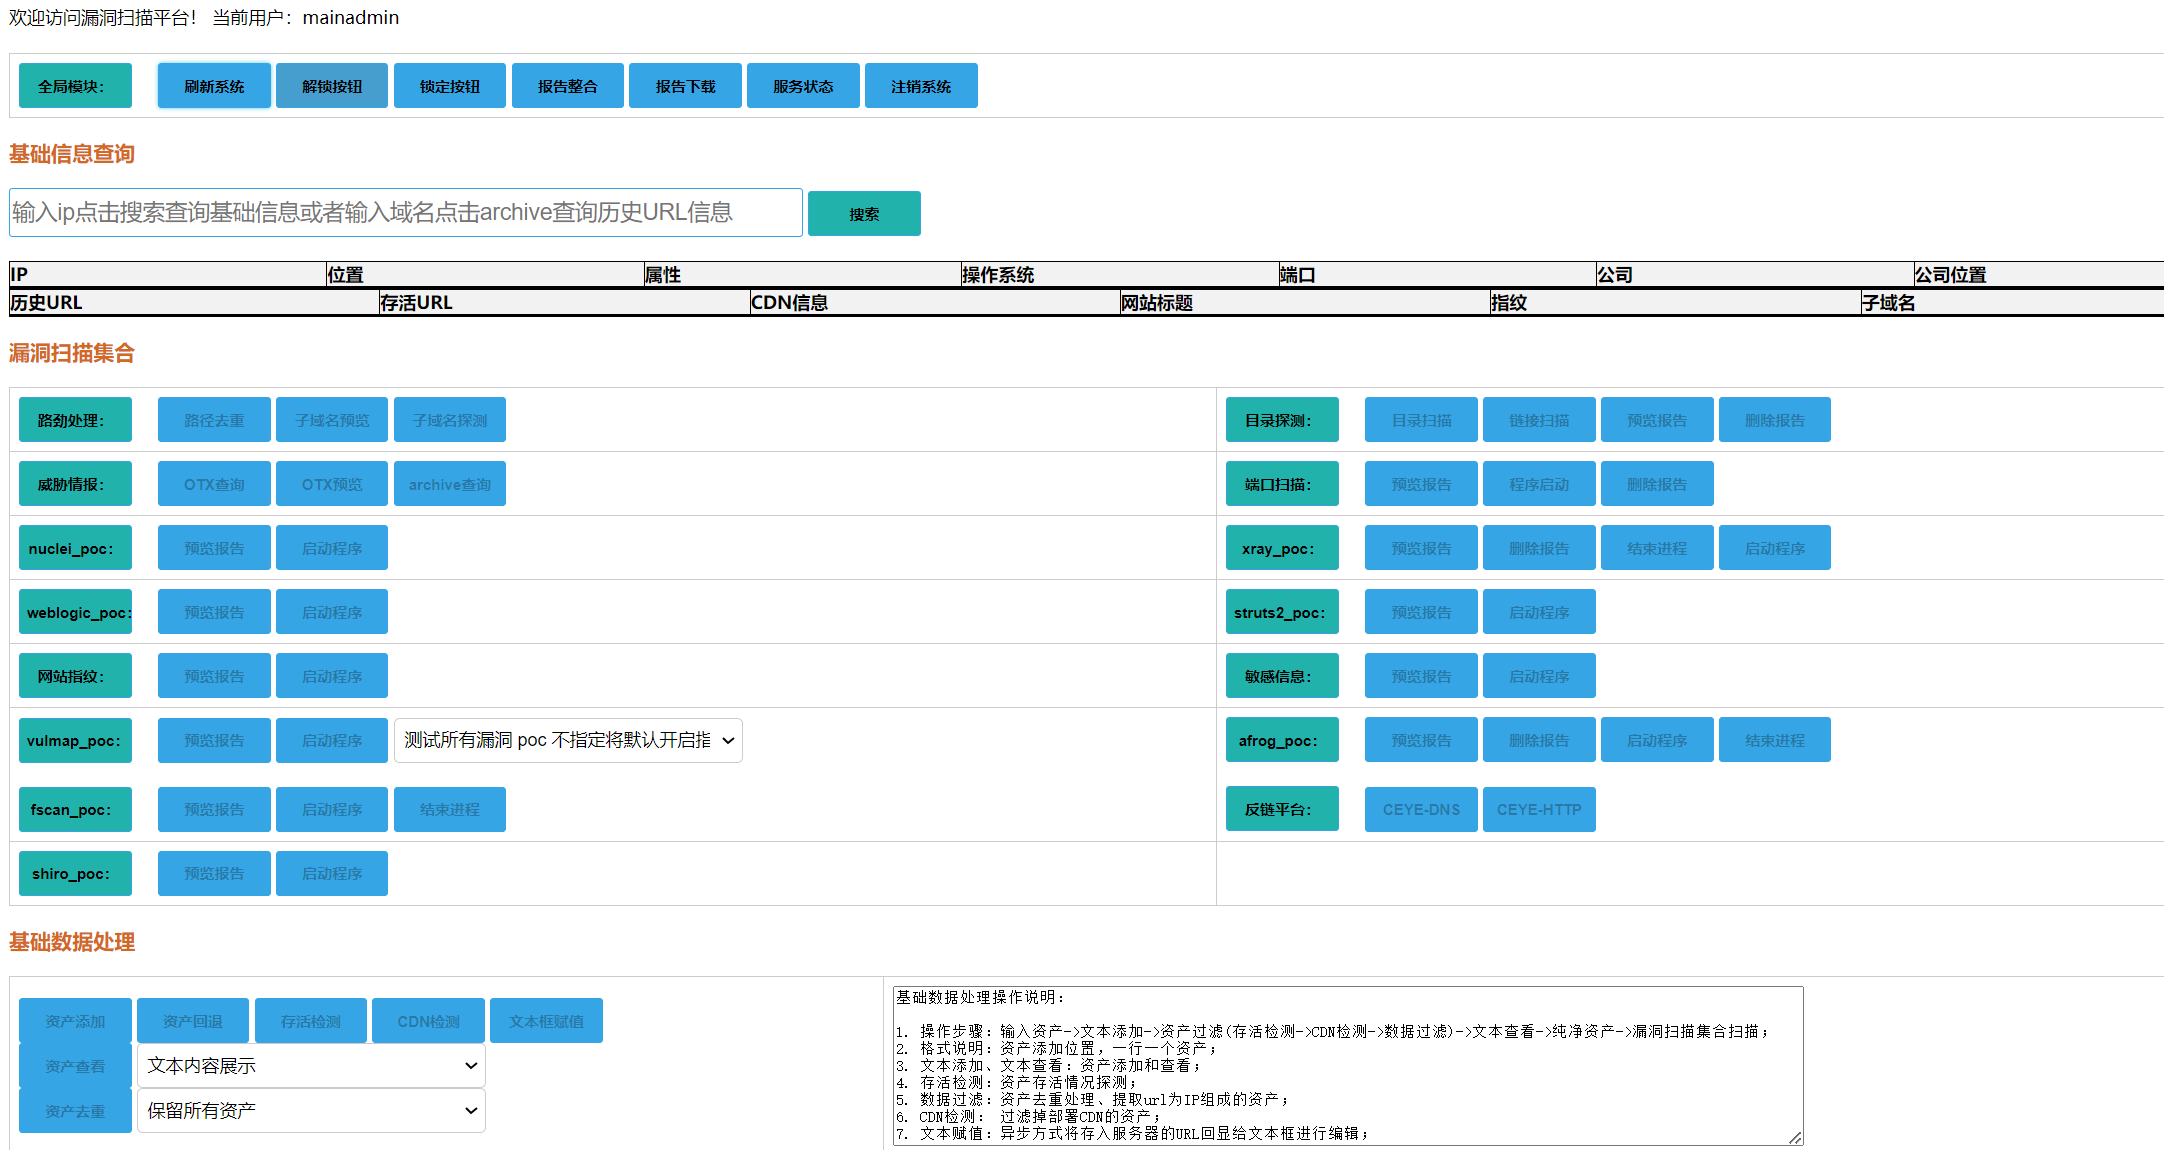
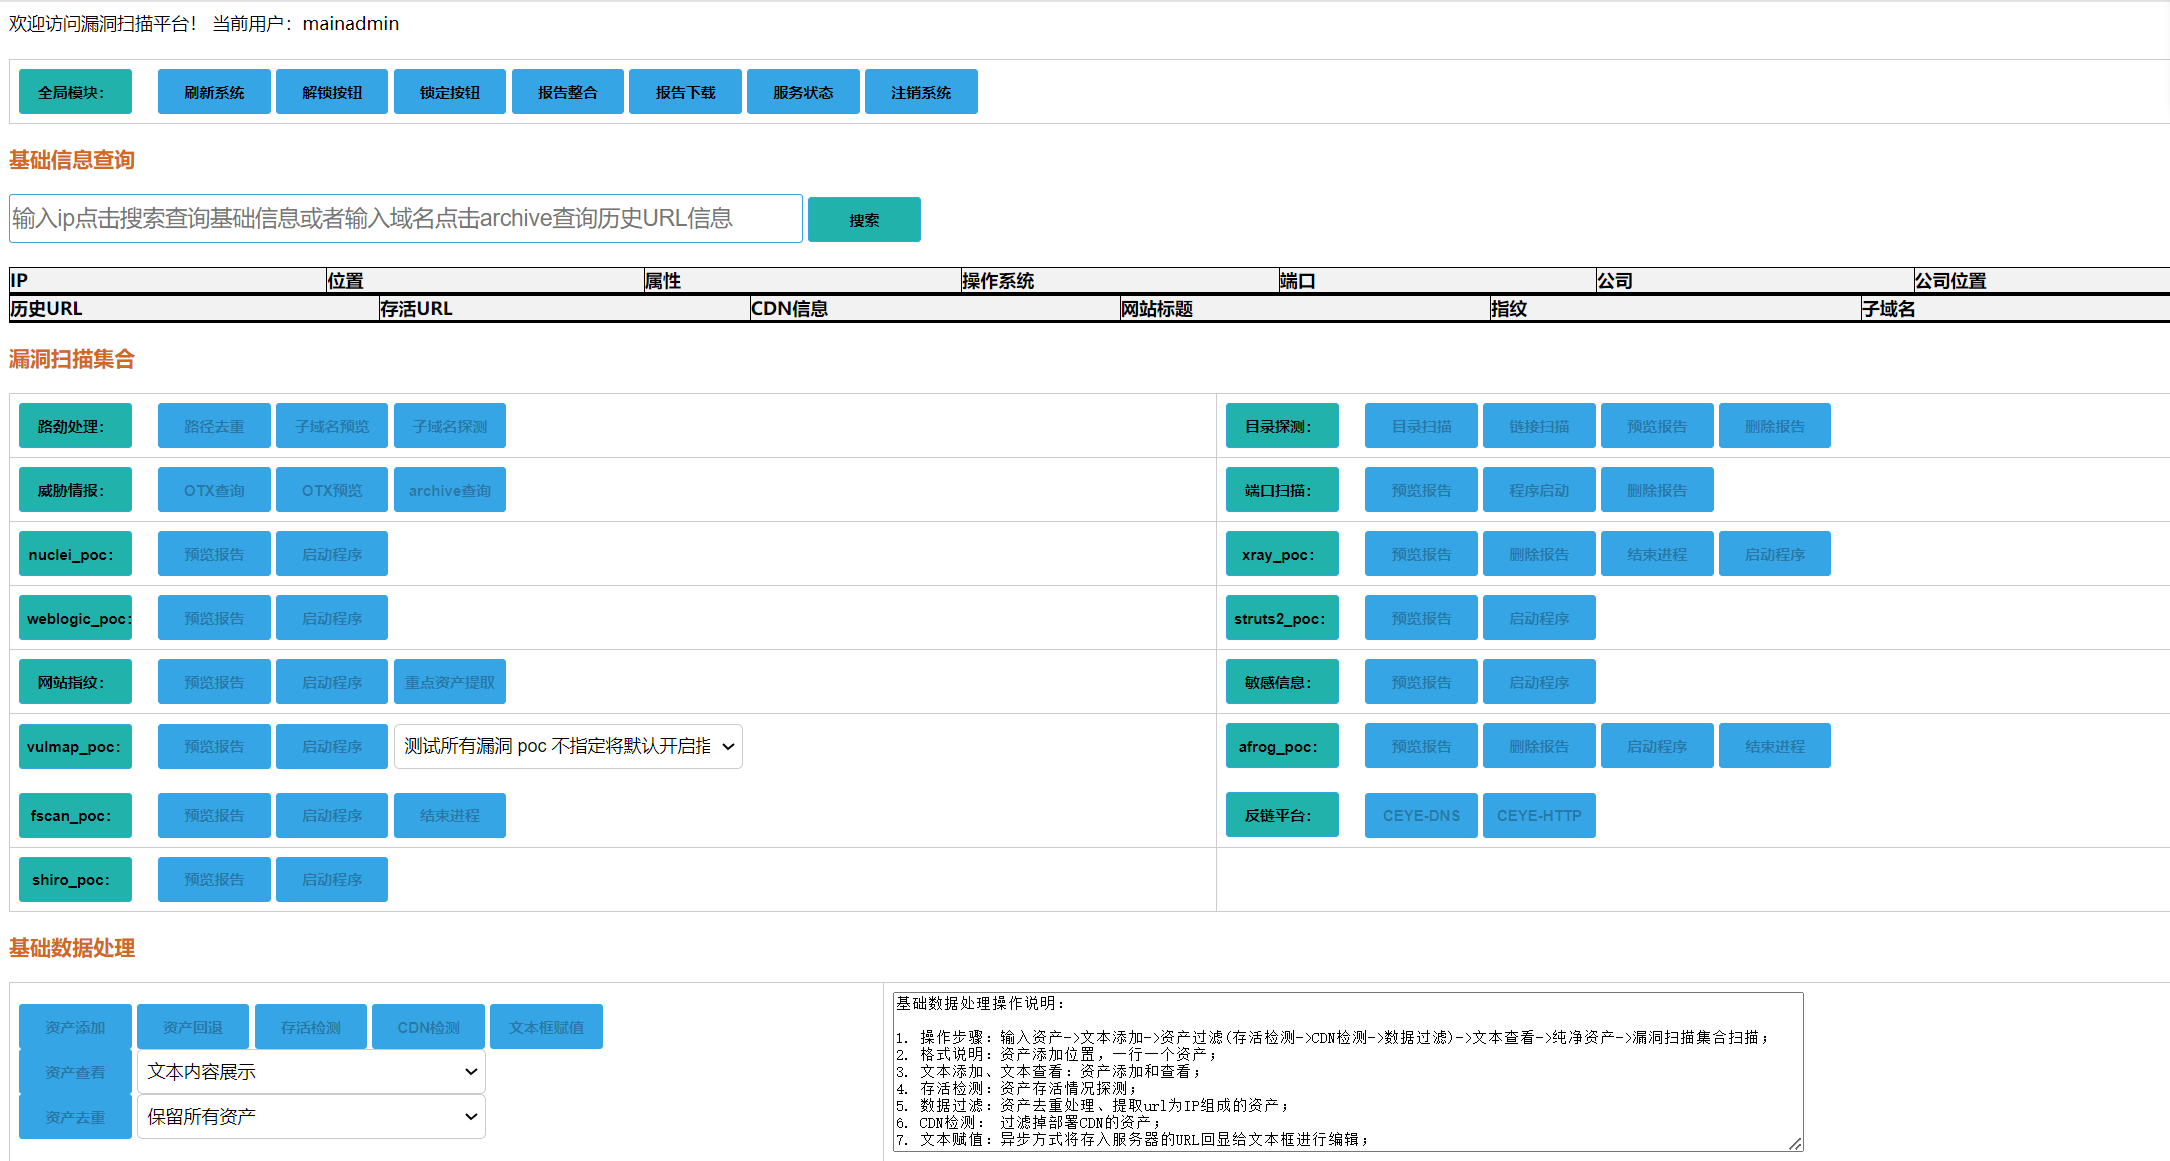
新增重点资产识别、前端页面调整

diff --git a/static/js/common.js b/static/js/common.js
@@ -69,13 +69,13 @@ function statusnmapfunc() {
 
 //xray报告预览
 function xrayreportshow() {
-    window.open("http://ip:18888/", "_blank");
+    window.open("http://x.x.x.x:18888/", "_blank");
 }
 
 
 //urlfinder报告预览
 function urlfinderreportshow() {
-    window.open("http://ip:16666/", "_blank");
+    window.open("http://x.x.x.x:16666/", "_blank");
 }
 
 
@@ -378,6 +378,8 @@ function startbutton() {
     button49.disabled = false;
     var button50 = document.getElementById("button50");
     button50.disabled = false;
+    var button51 = document.getElementById("button51");
+    button51.disabled = false;
 
 }
 
@@ -477,13 +479,15 @@ function stopbutton() {
     button49.disabled = true;
     var button50 = document.getElementById("button50");
     button50.disabled = true;
+    var button51 = document.getElementById("button51");
+    button51.disabled = true;
 
 }
 
 
 //跳转到目录扫描页面
 function jumpdirscanpage() {
-    window.open("http://ip:17777/dirscanpage/", "_blank");
+    window.open("http://x.x.x.x:17777/dirscanpage/", "_blank");
 }
 
 
@@ -874,7 +878,7 @@ function targeturlcopytextareafunc() {
 
 //afrog报告预览
 function afrogreportfun() {
-    window.open("http://ip:15555/", "_blank");
+    window.open("http://x.x.x.x:15555/", "_blank");
 }
 
 
@@ -1011,6 +1015,26 @@ function batchshirovulnfunc() {
         },
         complete: function () {
             alert('shiro漏扫程序已启动稍后查看结果')
+        }
+    })
+}
+
+
+//重点资产提取
+function key_data_tiqu_func() {
+    $.ajax({
+        url: '/key_assets_withdraw/',
+        method: 'GET',
+
+        success: function (res) {
+            console.log(res)
+            alert('已经按照自定义规则提取重点资产，点击文本框赋值查看最新资产')
+        },
+        error: function () {
+            alert('内部出错')
+        },
+        complete: function () {
+            alert('已经按照自定义规则提取重点资产，点击文本框赋值查看最新资产')
         }
     })
 }

diff --git a/templates/index.html b/templates/index.html
@@ -211,6 +211,7 @@
 				<input type="submit"  value="网站指纹：">&nbsp;&nbsp;&nbsp;&nbsp;
 				<input type="button"  id="button31"  value="预览报告" onclick="eholefingerreportfunc()" disabled>
 				<input type="button"  id="button32"  value="启动程序" onclick="eholefingerfunc()" disabled>
+				<input type="button"  id="button51"  value="重点资产提取" onclick="key_data_tiqu_func()" disabled>
 			</td>
 			<td>
 				<input type="submit"  value="敏感信息：">&nbsp;&nbsp;&nbsp;&nbsp;

diff --git a/scan_main_web.py b/scan_main_web.py
@@ -963,5 +963,23 @@ def startshirointerface():
         return render_template('login.html')
     
 
+#重点资产提取
+@app.route("/key_assets_withdraw/")
+def key_assets_withdraw():
+    user = session.get('username')
+    if str(user) == main_username:
+        try:
+            key_url_list = basic.key_point_tiqu()
+            f = open(file='/TIP/batch_scan_domain/url.txt',mode='w')
+            for line in key_url_list:
+                f.write(str(line)+"\n")
+            f.close()
+        except Exception as e:
+            print("捕获到异常:", e)
+        return render_template('index.html')
+    else:
+        return render_template('login.html')
+    
+
 if __name__ == '__main__':  
     app.run(host="127.0.0.1",port=80)

diff --git a/readme.md b/readme.md
@@ -2,19 +2,34 @@
 保证系统正常运行需要2个项目：<br>
 - [info_scan](https://github.com/huan-cdm/info_scan)：漏洞扫描主系统<br>
 - [batch_scan_domain](https://github.com/huan-cdm/batch_scan_domain)：xray+rad批量扫描，通过info_scan进行控制<br>
+系统使用说明<br>
+1. 安装python3+MySQL数据库<br>
+2. 安装nginx中间件<br>
+3. info_scan和batch_scan_domain 部署到/TIP/目录下<br>
+4. 首次运行afrog需在/root/.config/afrog/afrog-config.yaml进行相关配置，需先注册ceye dns平台<br>
+5. 将/TIP/info_scan/static/js/common.js中的x.x.x.x替换为vps ip，替换命令(:%s/x.x.x.x/vps_ip/g)
+6. xray+rad按照官方文档配置即可<br>
+7. info_scan系统相关配置在/TIP/info_scan/config.py文件配置<br>
+8. 系统使用前需点击解锁按钮进行解锁<br>
+9. nuclei poc路径在/root/nuclei-templates/目录下<br>
+10. 系统主要功能分为三类，第一是对IP进行基础信息探测，第二是对URL进行漏洞扫描，第三是对URL数据进行处理<br>
+11. 建议部署到Ubuntu系统下，不支持Windows系统<br>
 
-项目部署截图
+程序文件
+<img src="https://raw.githubusercontent.com/huan-cdm/info_scan/main/images/pic33.png"  />
+
+项目部署
 <img src="https://raw.githubusercontent.com/huan-cdm/info_scan/main/images/project.png"  />
 <img src="https://raw.githubusercontent.com/huan-cdm/info_scan/main/images/startproject.jpg"  />
 
-系统运行截图
+系统运行
 <img src="https://raw.githubusercontent.com/huan-cdm/info_scan/main/images/pic3.jpg"  />
 <img src="https://raw.githubusercontent.com/huan-cdm/info_scan/main/images/pic4.jpg"  />
 <img src="https://raw.githubusercontent.com/huan-cdm/info_scan/main/images/pic2.png"  />
 <img src="https://raw.githubusercontent.com/huan-cdm/info_scan/main/images/pic22.png"  />
 <img src="https://raw.githubusercontent.com/huan-cdm/info_scan/main/images/dirscanpic.jpg"  />
 
-漏洞报告截图
+漏洞报告
 <img src="https://raw.githubusercontent.com/huan-cdm/info_scan/main/images/report.png"  /><br><br>
 
 系统后台服务启动参数 <br>
@@ -47,10 +62,11 @@ IP属性: 自定义列表,遍历列表和cip.cc的数据二进行对比<br>
 存活URL: fofa、httpx<br>
 网站标题: python3 requests模块<br>
 CDN信息: shell脚本nslookup<br>
-指纹: tiderfinger<br>
+指纹: tiderfinger、EHole<br>
 子域名：crt证书<br>
 rad+xray批量：batch_scan_domain<br>
-漏洞扫描工具：nuclei、xray、rad、dirsearch、urlfinder、WeblogicScan、Struts2-Scan、vulmap、afrog、fscan<br>
+漏洞扫描工具：nuclei、xray、rad、dirsearch、urlfinder、WeblogicScan、Struts2-Scan、vulmap、afrog、fscan、shiro-exploit<br>
 DNS平台：ceye<br>
-信息收集工具：EHole、BBScan<br>
+敏感信息：BBScan<br>
 威胁情报平台：otx、archive<br>
+重点资产提取：自定义关键字列表，与EHole识别结果进行匹配<br>
